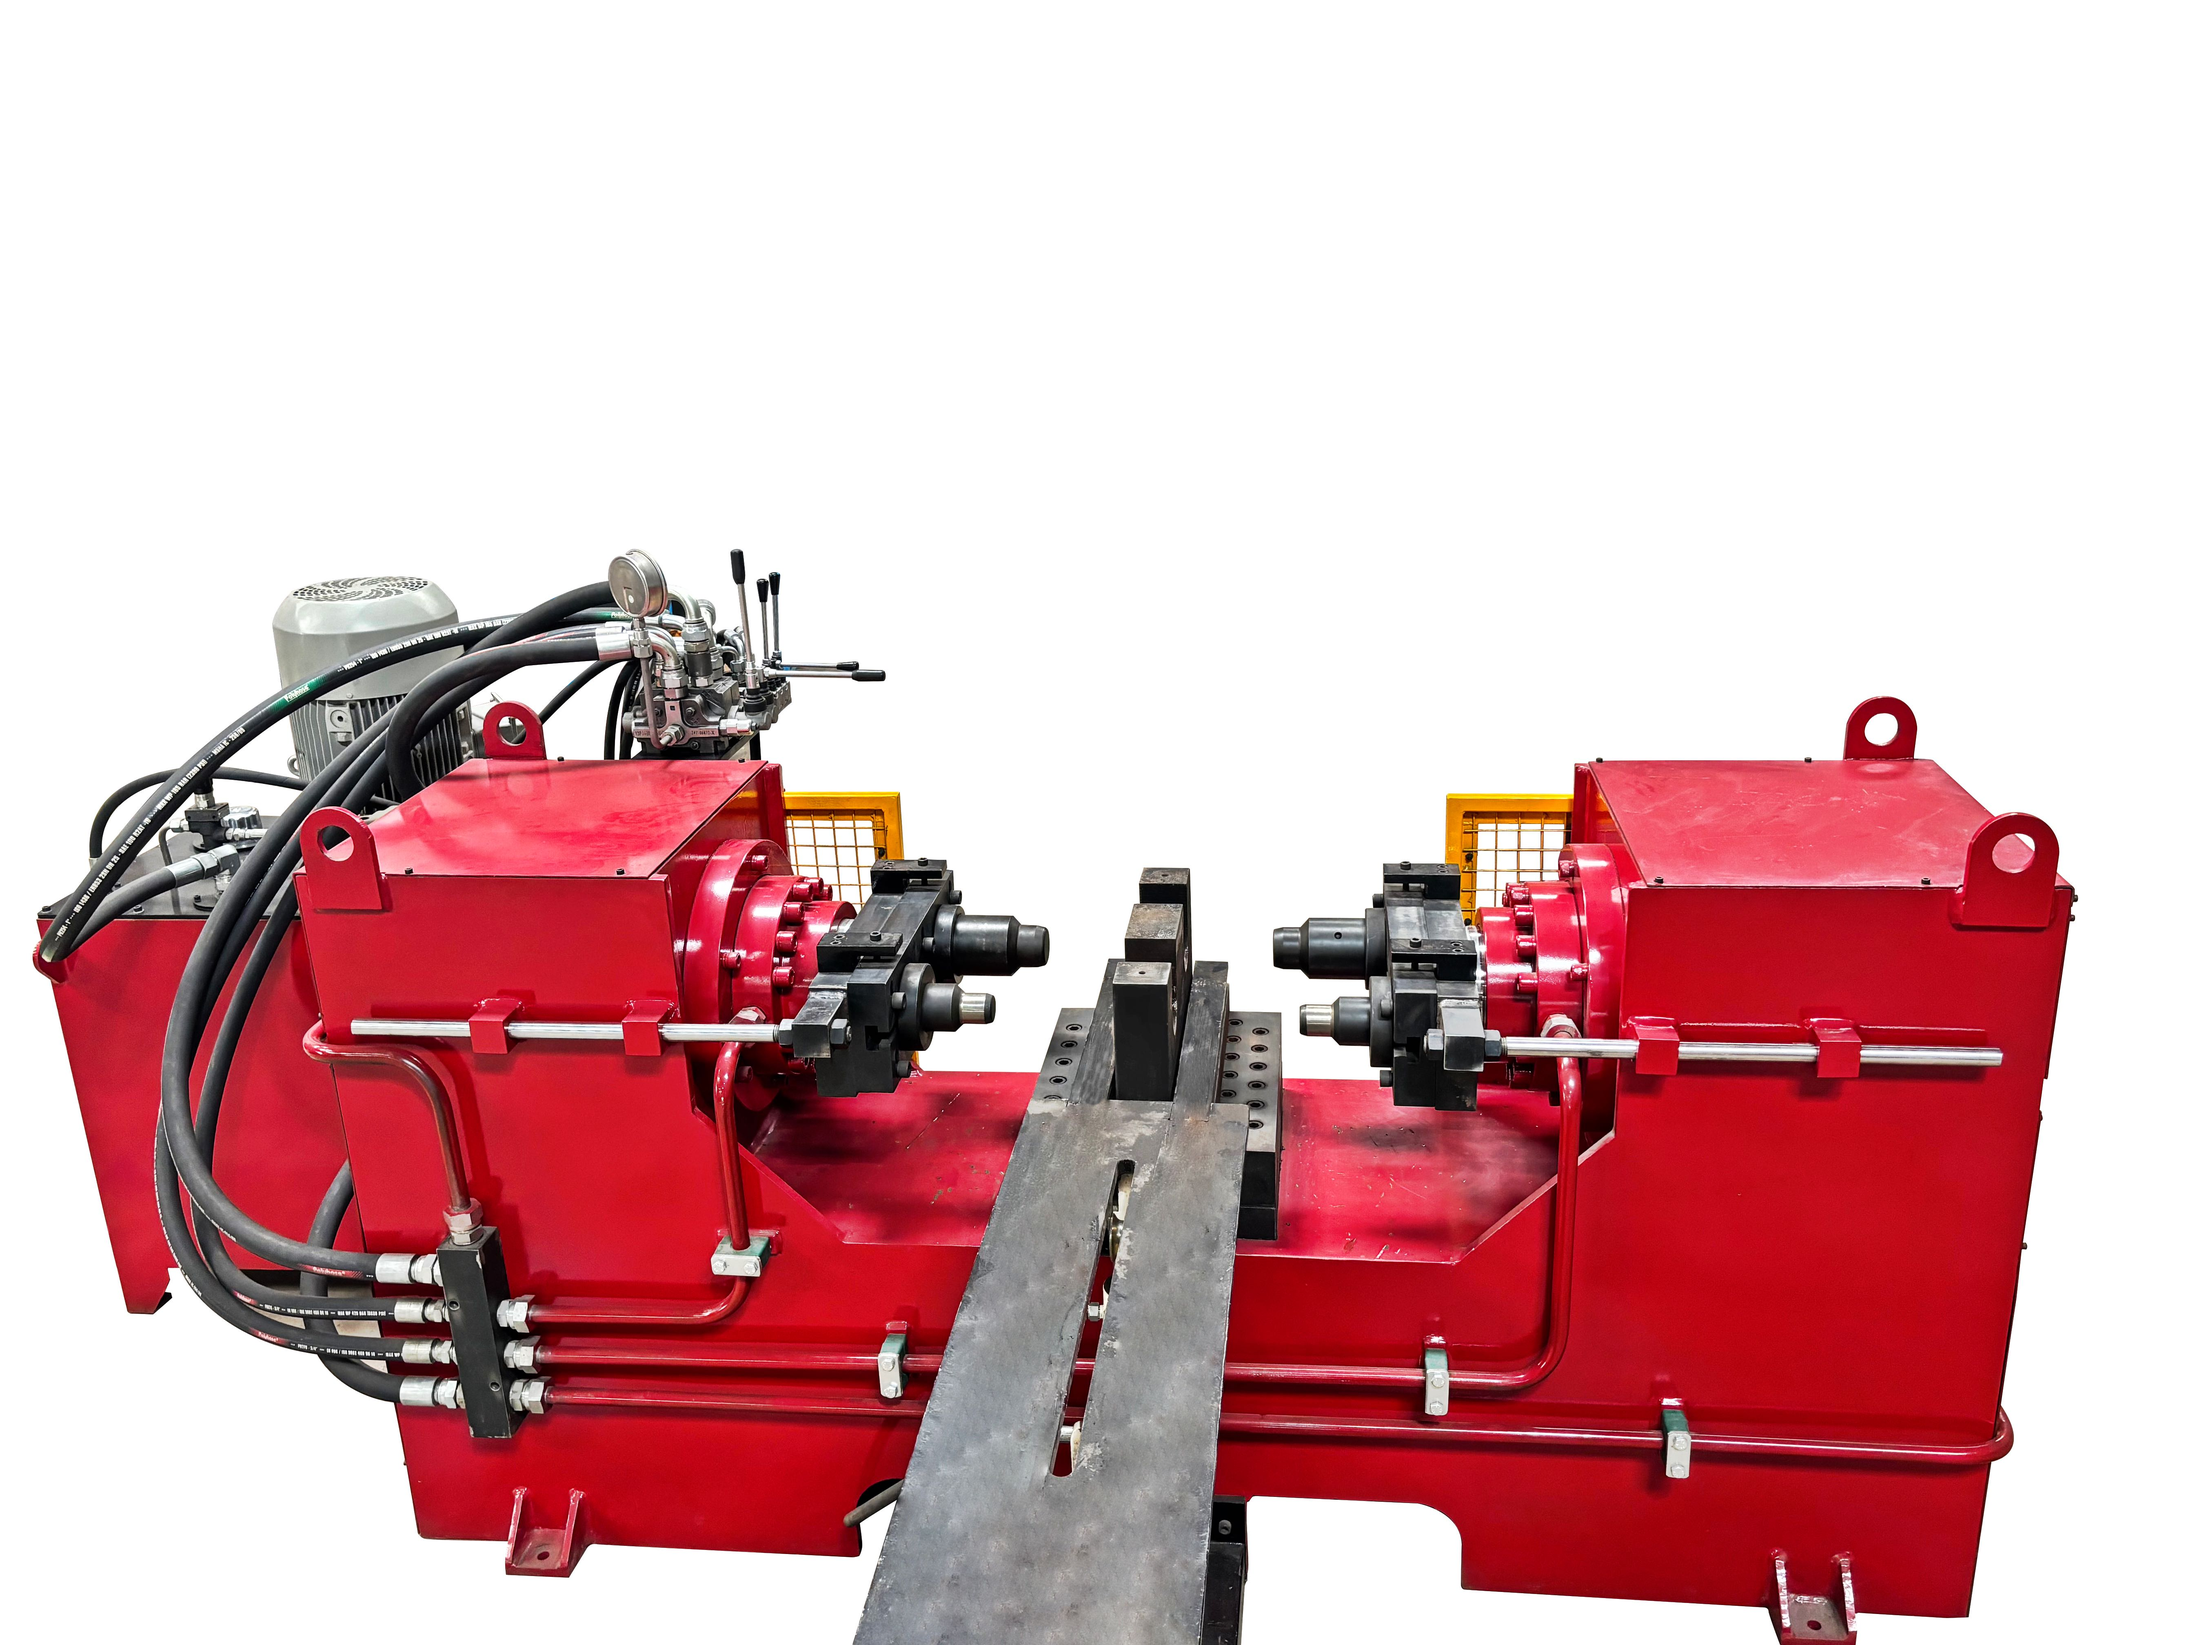
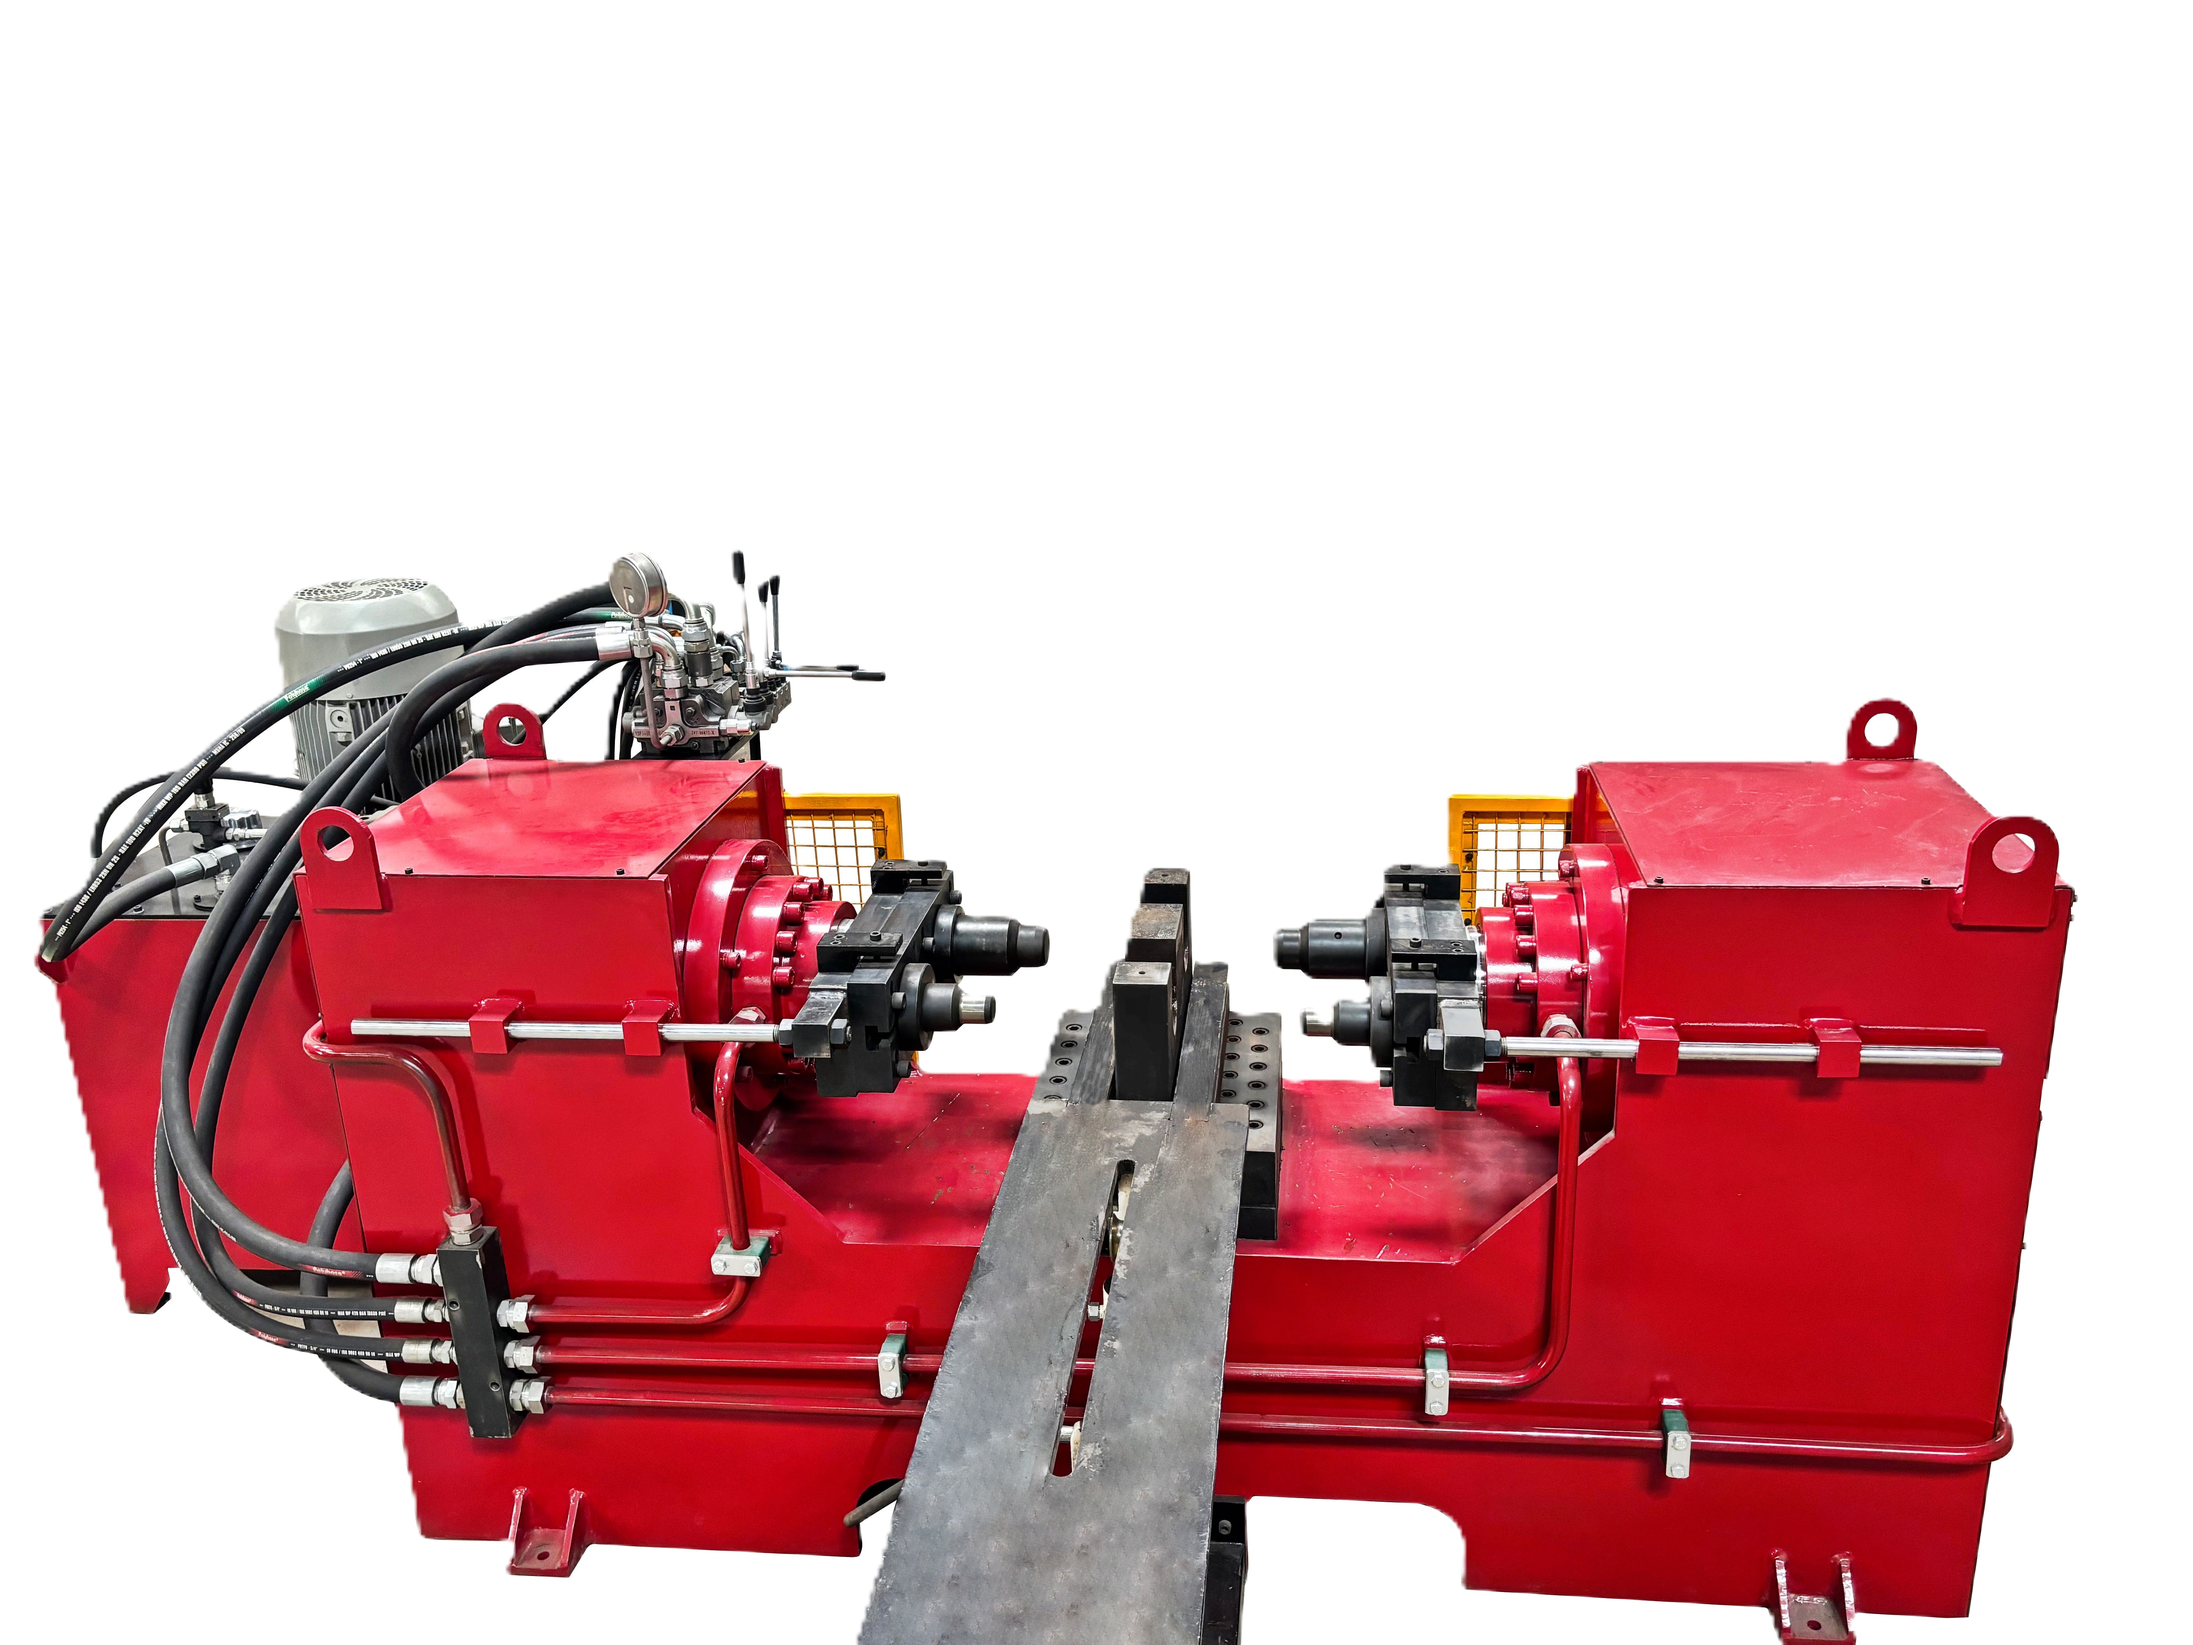
changes a 27

diff --git a/trackassemblypress.html b/trackassemblypress.html
@@ -250,7 +250,7 @@
           
           <!-- Left Image Section (Aligned to bottom) -->
           <div class="w-full h-full flex items-end justify-center   ">
-              <img src="assets/img/products/Trackwinder/Trackwinder.png" alt="Electronic Torque Wrench" class="w-full h-auto  ">
+              <img src="assets/img/products/TrackAssemblyPress/TrackAssemblyPress-2-compressed.png" alt="Electronic Torque Wrench" class="w-full h-auto  ">
           </div>
   
           <!-- Right Text Section -->
